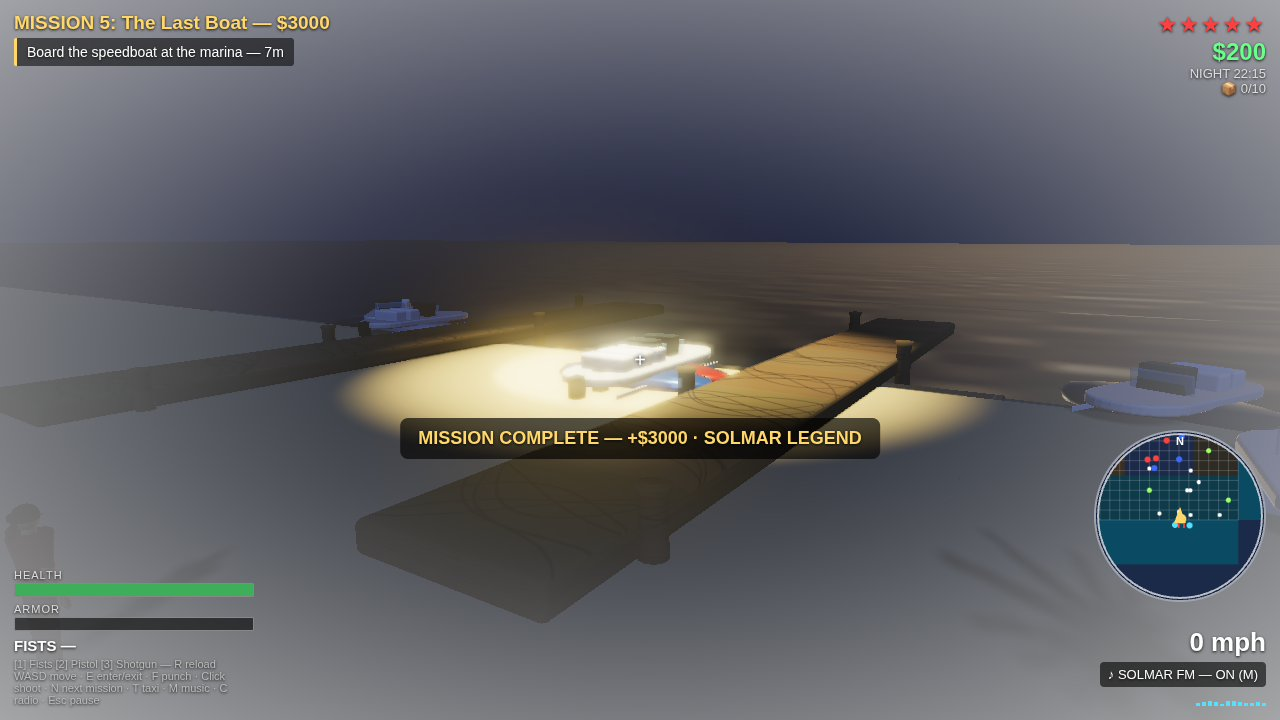
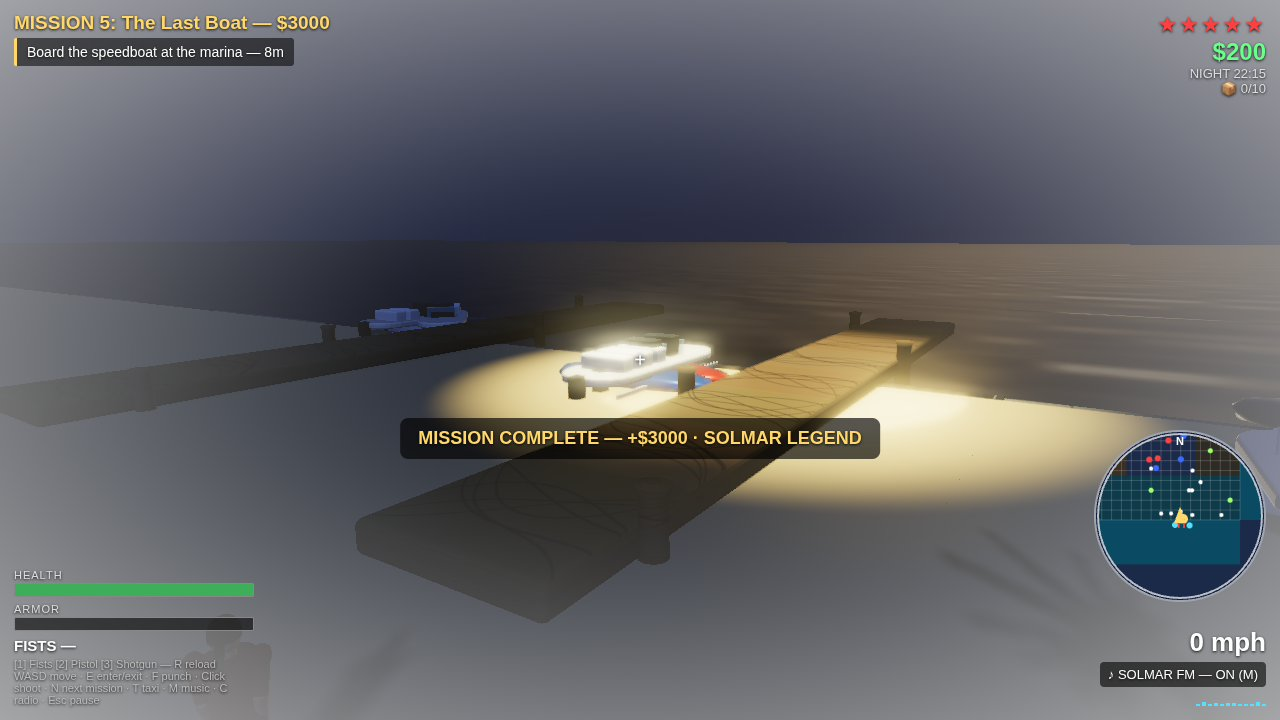
fix: night Mara inside z-clamp, reframe on her + boat

Changed region(s): [[0.5312, 0.4278, 1.0, 0.7333], [0.25, 0.3972, 0.5, 0.6111], [0.375, 0.6111, 0.4688, 0.6722]]

diff --git a/game/src/shots.js b/game/src/shots.js
@@ -81,20 +81,21 @@ export function stageShot(name, w) {
     set('night', 4, 5);
     w.exitVehicle(true);
     // Mara on the dock LEFT of the boat (clear of the centre banner),
-    // facing the boat — big enough to read as a person.
-    player.pos.set(38.5, 0, 159); player.heading = 0.8;
+    // facing the boat. NOTE: updatePlayer clamps player z to <=152, so
+    // staging her any further south silently teleports her to the edge.
+    player.pos.set(42, 0, 150); player.heading = 0.21;
     player.human.group.position.copy(player.pos);
     player.human.setPose('idle', 0.5);
     // boat right at the dock edge, bow out to sea
-    w.boat.pos.set(44.5, 0, 166); w.boat.heading = 0; w.boat.speed = 0;
-    w.boat.group.position.set(44.5, -0.1, 166);
+    w.boat.pos.set(44.5, 0, 162); w.boat.heading = 0; w.boat.speed = 0;
+    w.boat.group.position.set(44.5, -0.1, 162);
     w.boat.group.rotation.y = w.boat.heading - Math.PI / 2;
     // hide the giant beacon pillar for this shot (it filled the frame)
     missions.beaconEnabled = false;
     missions.beacon.visible = false;
     police.update(0.01, w.time, player, w.policeCallbacks);
     lookAt(camera,
-      new THREE.Vector3(34, 4.2, 150),
+      new THREE.Vector3(33, 4.5, 141),
       new THREE.Vector3(43, 1.2, 164));
     hud.setCenter('<div style="background:rgba(0,0,0,0.65);padding:10px 18px;border-radius:8px;color:#ffd76a;font-weight:bold">MISSION COMPLETE — +$3000 · SOLMAR LEGEND</div>');
   } else {
